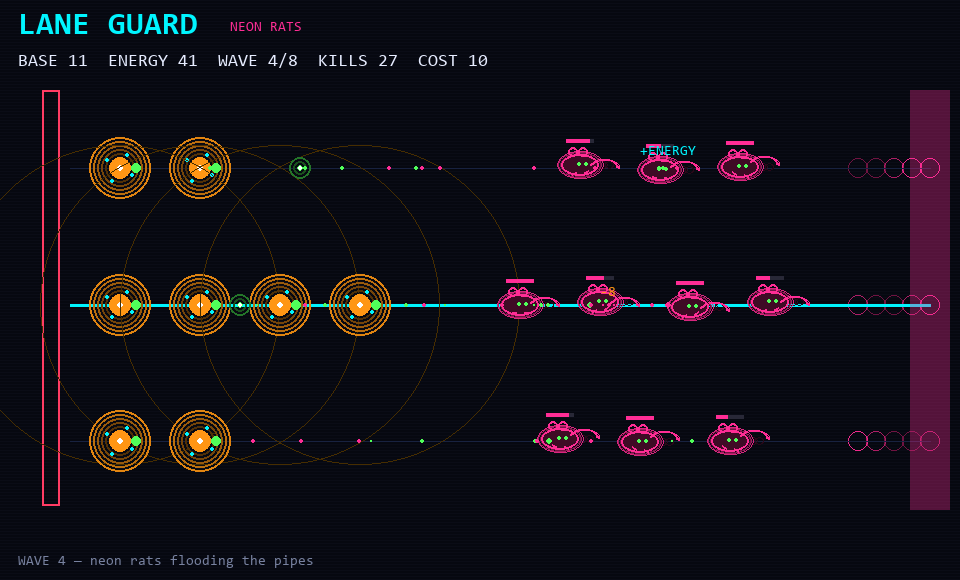
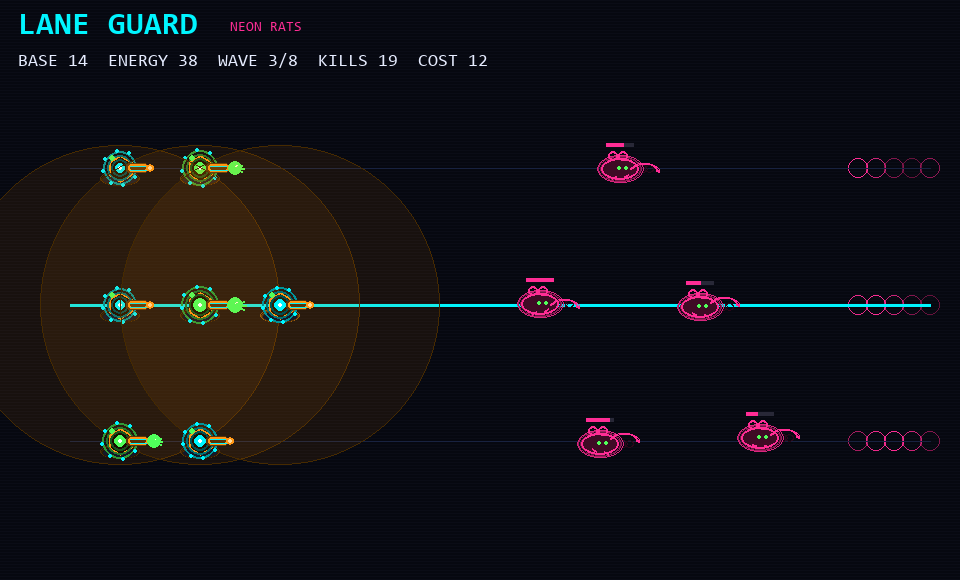
Redesign Lane Guard turrets with hex body, barrel, and muzzle flash.

diff --git a/lane-guard/main.py b/lane-guard/main.py
@@ -355,19 +355,77 @@ def draw_rat(surf: pygame.Surface, rat: Rat, color: tuple[int, int, int], t: flo
 
 
 def draw_turret(surf: pygame.Surface, t: Turret, selected: bool, pulse: float, C: dict, range_px: float) -> None:
-    pop = 1.0 + t.spawn_pop * 0.8
-    rad = int(11 * pop)
-    glow_circle(surf, (int(t.x), int(t.y)), rad, C["neon_orange"], layers=5)
-    # spinning ring
-    for a in range(0, 360, 90):
-        ang = math.radians(a + pulse * 120)
-        px = int(t.x + math.cos(ang) * (14 + t.flash * 6))
-        py = int(t.y + math.sin(ang) * (14 + t.flash * 6))
-        pygame.draw.circle(surf, C["neon_cyan"], (px, py), 2)
-    if t.flash > 0:
-        pygame.draw.circle(surf, C["neon_lime"], (int(t.x + 16), int(t.y)), int(4 + t.flash * 10))
+    """Neon coil turret: pad → hex body → barrel toward rats → muzzle glow."""
+    pop = 1.0 + t.spawn_pop * 0.9
+    x, y = int(t.x), int(t.y)
+    orange, cyan, lime = C["neon_orange"], C["neon_cyan"], C["neon_lime"]
+    hum = 0.65 + 0.35 * math.sin(pulse * 5 + t.x * 0.05)
+
     if selected:
-        pygame.draw.circle(surf, (70, 45, 0), (int(t.x), int(t.y)), int(range_px), 1)
+        pygame.draw.circle(surf, (55, 35, 0), (x, y), int(range_px), 1)
+        # soft range wash
+        rng = pygame.Surface((int(range_px) * 2, int(range_px) * 2), pygame.SRCALPHA)
+        pygame.draw.circle(rng, (255, 140, 0, 18), (int(range_px), int(range_px)), int(range_px))
+        surf.blit(rng, (x - int(range_px), y - int(range_px)))
+
+    # ground pad / shadow
+    pad_w, pad_h = int(34 * pop), int(12 * pop)
+    pygame.draw.ellipse(surf, (20, 24, 40), (x - pad_w // 2, y + 6, pad_w, pad_h))
+    for i in range(3, 0, -1):
+        shade = tuple(int(c * (0.2 + 0.15 * i) * hum) for c in orange)
+        pygame.draw.ellipse(surf, shade, (x - pad_w // 2 - i, y + 6 - i, pad_w + i * 2, pad_h + i), 1)
+
+    # hex chassis
+    hr = int(13 * pop)
+    hex_pts = [
+        (x + int(hr * math.cos(math.radians(a + pulse * 25))), y + int(hr * math.sin(math.radians(a + pulse * 25))))
+        for a in range(0, 360, 60)
+    ]
+    fill = tuple(int(c * 0.2 * hum) for c in orange)
+    pygame.draw.polygon(surf, fill, hex_pts)
+    for i in range(3, 0, -1):
+        glow = tuple(int(c * (0.25 + 0.2 * i)) for c in orange)
+        pygame.draw.polygon(surf, glow, hex_pts, 1)
+    pygame.draw.polygon(surf, orange, hex_pts, 2)
+
+    # inner energy core
+    core_r = int(5 + 2 * hum + t.flash * 4)
+    glow_circle(surf, (x, y), core_r, cyan if t.flash <= 0 else lime, layers=3)
+
+    # rotating coil dots around hex
+    for a in range(0, 360, 45):
+        ang = math.radians(a + pulse * 140)
+        px = x + int(math.cos(ang) * (hr + 5 + t.flash * 4))
+        py = y + int(math.sin(ang) * (hr + 5 + t.flash * 4))
+        pygame.draw.circle(surf, cyan, (px, py), 2)
+
+    # barrel aimed right (rats come from right)
+    barrel_len = int(22 * pop + t.flash * 6)
+    by0, by1 = y - 4, y + 4
+    # barrel glow underlay
+    pygame.draw.rect(surf, tuple(int(c * 0.35) for c in orange), (x + 6, by0 - 1, barrel_len, 10), border_radius=3)
+    pygame.draw.rect(surf, orange, (x + 8, by0, barrel_len - 2, 8), 2, border_radius=3)
+    # rails
+    pygame.draw.line(surf, cyan, (x + 10, y - 2), (x + 8 + barrel_len - 4, y - 2), 1)
+    pygame.draw.line(surf, cyan, (x + 10, y + 2), (x + 8 + barrel_len - 4, y + 2), 1)
+    # muzzle tip
+    mx = x + 8 + barrel_len
+    pygame.draw.circle(surf, orange, (mx, y), 4, 2)
+    pygame.draw.circle(surf, (255, 220, 160), (mx, y), 2)
+
+    # status LED
+    led = lime if t.cooldown < 0.08 else ((255, 80, 80) if t.cooldown > 0.35 else cyan)
+    pygame.draw.circle(surf, led, (x - 8, y - 10), 3)
+
+    # muzzle flash burst
+    if t.flash > 0:
+        fl = t.flash
+        pygame.draw.circle(surf, lime, (mx + 4, y), int(5 + fl * 14))
+        pygame.draw.circle(surf, (255, 255, 220), (mx + 6, y), int(2 + fl * 6))
+        for ang in (-0.5, 0, 0.5):
+            ex = mx + int(math.cos(ang) * (10 + fl * 18))
+            ey = y + int(math.sin(ang) * (6 + fl * 10))
+            pygame.draw.line(surf, lime, (mx, y), (ex, ey), 2)
 
 
 def main() -> None:
@@ -507,10 +565,10 @@ def main() -> None:
                 if not candidates:
                     continue
                 target = min(candidates, key=lambda r: r.x)
-                gs.bullets.append(Bullet(tur.x + 10, tur.y, target.x, target.y, dmg))
+                gs.bullets.append(Bullet(tur.x + 26, tur.y, target.x, target.y, dmg))
                 tur.cooldown = cd
-                tur.flash = 0.2
-                burst(gs, tur.x + 14, tur.y, C["neon_lime"], n=5, speed=80, life=0.15, size=2)
+                tur.flash = 0.28
+                burst(gs, tur.x + 30, tur.y, C["neon_lime"], n=8, speed=110, life=0.2, size=2.5)
 
             alive_b: list[Bullet] = []
             for b in gs.bullets:
